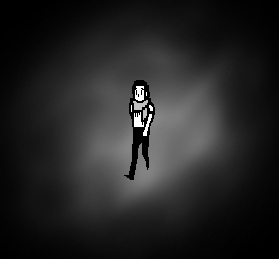
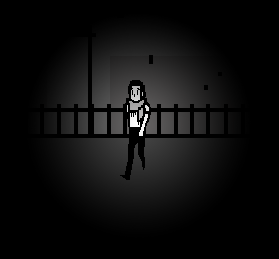
Adding creds, revised image for index, revised park

diff --git a/fov.css b/fov.css
@@ -58,8 +58,8 @@ body {
 	border: 2px solid #ffffff;
 	margin: 5px auto;
 	text-align: center;
-	padding-left: 30px;
-	padding-right: 30px;
+	padding-left: 50px;
+	padding-right: 50px;
 	padding-top: 50px;
 	color: white;
 	font-size:18px;
@@ -67,7 +67,7 @@ body {
 	font-family: "helvetica";
 	line-height:20px;
 	font-weight:lighter;
-	width: 800px;
+	width: 700px;
 	height: 600px;
 	position: absolute;
 	z-index: 10;
